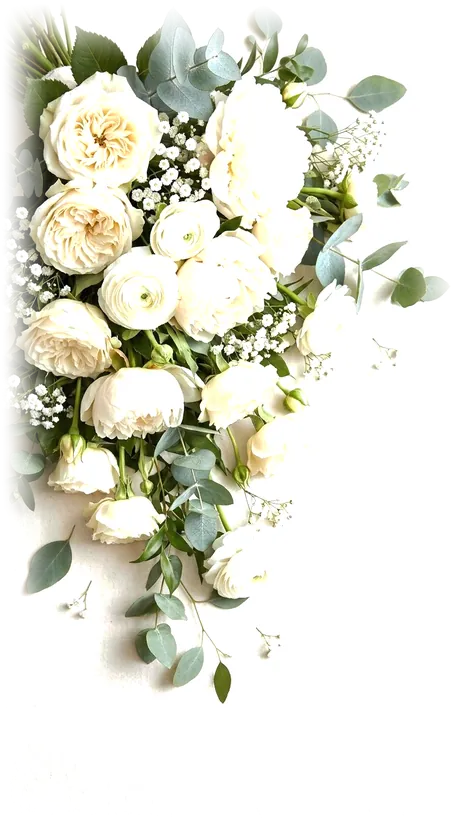
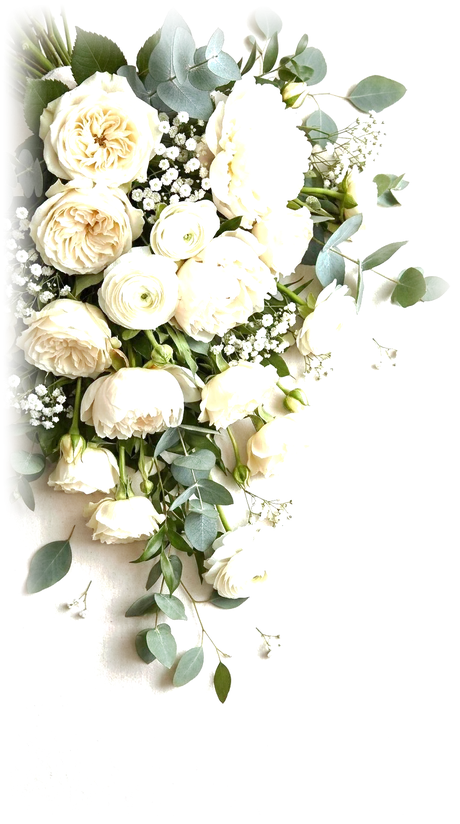
Real transparency for bouquet/garland/divider (no blend-mode), clarify wedding countdown heading

Changed region(s): [[0.213, 0.182, 0.2435, 0.2124], [0.1826, 0.1214, 0.213, 0.1517], [0.1522, 0.1517, 0.1826, 0.182]]

diff --git a/css/style.css b/css/style.css
@@ -468,11 +468,11 @@ html[lang="en"] .thanks .names { font-weight: 400; font-size: 46px; }
 img[data-slot] { display: block; opacity: 0; transition: opacity .8s ease; user-select: none; -webkit-user-drag: none; }
 img[data-slot].ok { opacity: 1; }
 img[data-slot]:not(.ok) { position: absolute; width: 0 !important; height: 0 !important; margin: 0 !important; pointer-events: none; }
-.orn-wrap img.divider { width: min(250px, 70%); height: auto; margin: -4px auto 0; mix-blend-mode: multiply; }
+.orn-wrap img.divider { width: min(250px, 70%); height: auto; margin: -4px auto 0; }
 .garland-wrap { padding: 0 8px; }
-.garland-wrap img.garland { width: 100%; max-width: 460px; height: auto; margin: 0 auto; mix-blend-mode: multiply; }
+.garland-wrap img.garland { width: 100%; max-width: 460px; height: auto; margin: 0 auto; }
 .garland-wrap:not(:has(img.ok)) { display: none; }
-.corner-img { position: absolute; z-index: 0; pointer-events: none; width: min(27%, 100px); height: auto; mix-blend-mode: multiply; }
+.corner-img { position: absolute; z-index: 0; pointer-events: none; width: min(27%, 100px); height: auto; }
 .corner-img.tl { top: 0; left: 0; } .corner-img.br { bottom: 0; right: 0; }
 .rsvp { padding-top: 64px; }
 .rsvp .corner-img { width: min(22%, 84px); }

diff --git a/js/i18n.js b/js/i18n.js
@@ -34,8 +34,8 @@ export const I18N = {
     shaylCount: 'باقي على شيل العزال',
     shaylDone: 'النهارده شيل العزال — نشوفكم على خير',
 
-    countTitle: 'العد التنازلي',
-    countSub: 'حتى نلتقي في يومنا المميز',
+    countTitle: 'العد التنازلي ليوم الزفاف',
+    countSub: 'باقي على يوم الفرح، 10 مارس 2027',
     cd_d: 'يوم',
     cd_h: 'ساعة',
     cd_m: 'دقيقة',
@@ -114,8 +114,8 @@ export const I18N = {
     shaylCount: 'Until Shayl El-Azal',
     shaylDone: 'Today is Shayl El-Azal — see you soon',
 
-    countTitle: 'Countdown',
-    countSub: 'Until we meet on our special day',
+    countTitle: 'Wedding Day Countdown',
+    countSub: 'Until our wedding day, 10 March 2027',
     cd_d: 'Days',
     cd_h: 'Hours',
     cd_m: 'Minutes',
